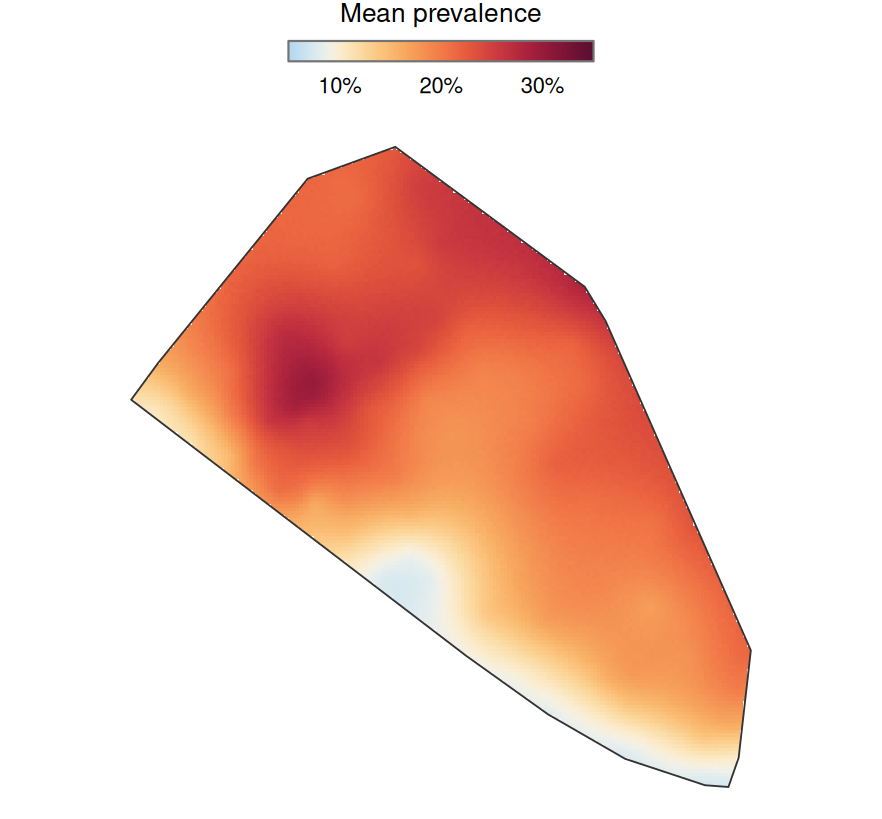
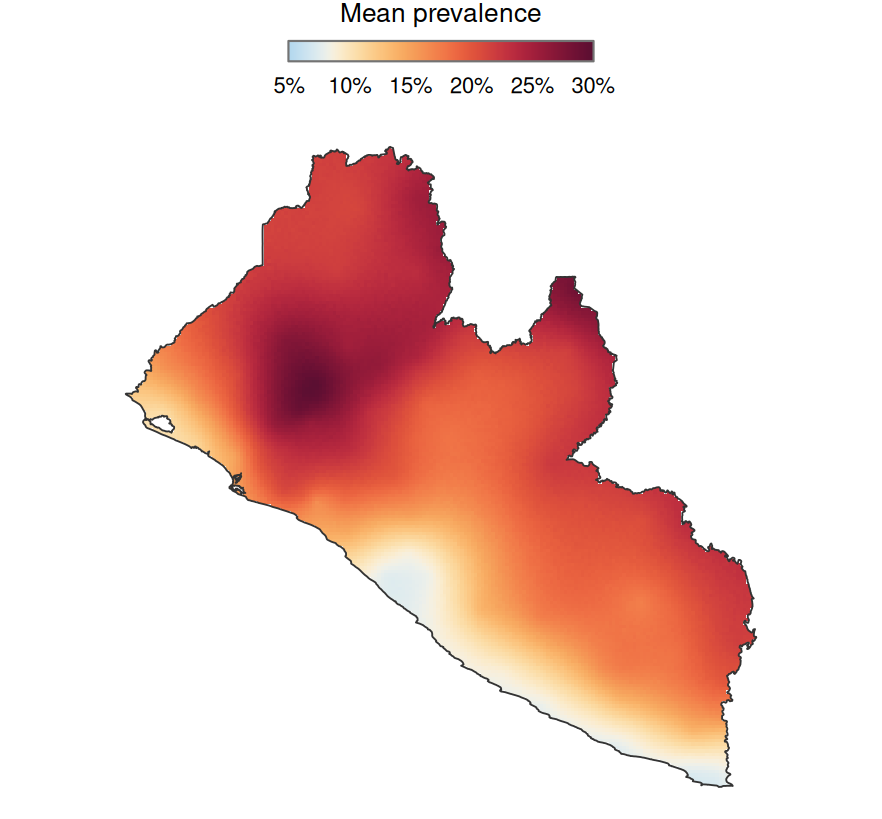
Rework the home page after my comments
A plainer pitch, a Get started section whose map covers Liberia within its
geoBoundaries border, cards for exploring, fitting, predicting and assessing
in plain terms, and full-width text. Drop the reference to Diggle and Giorgi
(2019) and, from NEWS, the line on the authors.

diff --git a/pkgdown/extra.css b/pkgdown/extra.css
@@ -106,16 +106,11 @@ code, pre, kbd {
 
 /* Home page --------------------------------------------------------------- */
 
-/* The home page is a landing page across the full width, with its prose kept
-   to a readable measure */
+/* The home page is a landing page across the width of the page, narrow
+   enough for its short paragraphs to read comfortably */
 .template-home .row > #main {
   width: 100%;
-  max-width: 66rem;
-}
-
-.template-home #main p,
-.template-home #main ul {
-  max-width: 46rem;
+  max-width: 62rem;
 }
 
 .template-home .row > aside {

diff --git a/pkgdown/index.md b/pkgdown/index.md
@@ -3,11 +3,12 @@ CRAN, so keep the two in step. The map comes from knitting README.Rmd. -->
 
 # RiskMap
 
-<p class="rm-pitch">Turn surveys at scattered locations into maps of disease
-risk, with geostatistical models that tell you how certain each map is.</p>
+<p class="rm-pitch">Model-based geostatistics in R. Fit spatial models to
+survey data, predict disease risk at locations and over areas, and quantify
+its uncertainty.</p>
 
 <div class="rm-actions">
-<a class="btn btn-primary btn-lg" href="#from-data-to-a-map">Get started</a>
+<a class="btn btn-primary btn-lg" href="#get-started">Get started</a>
 <a class="btn btn-outline-primary btn-lg" href="https://www.mbgr.org/"><i class="fa-solid fa-book-open" aria-hidden="true"></i> Read the book</a>
 <a class="btn btn-outline-secondary btn-lg" href="reference/index.html">Reference</a>
 </div>
@@ -19,11 +20,10 @@ risk, with geostatistical models that tell you how certain each map is.</p>
 <!-- badges: end -->
 :::
 
-RiskMap fits generalised linear models with a spatial Gaussian process to
-Gaussian, binomial, Poisson and negative binomial data, and predicts risk at
-single locations and over areas. It was written for public health, such as
-mapping the prevalence of a disease from village surveys, but it applies to
-any continuous or count outcome measured at points in space.
+RiskMap implements generalised linear geostatistical models for Gaussian,
+binomial, Poisson and negative binomial outcomes. It was developed for public
+health, for example to map the prevalence of a disease from surveys, and
+applies to any outcome measured at geo-referenced locations.
 
 <hr class="rm-rule">
 
@@ -41,12 +41,12 @@ remotes::install_github("claudiofronterre/RiskMap")
 `install.packages("RiskMap")` installs RiskMap 1.0.0 from CRAN, whose
 interface is different.
 
-## From data to a map {#from-data-to-a-map}
+## Get started {#get-started}
 
 The `liberia` data give, for 90 villages, the number of people examined for
-the nodules of river blindness and the number found with them. A binomial
-model with a Gaussian process, fitted to the counts, gives the predicted
-prevalence everywhere in the area the villages span.
+the nodules of river blindness and the number found with them. This example
+fits a binomial geostatistical model to the counts and maps the predicted
+prevalence across Liberia.
 
 :::: {.row .g-4 .align-items-center}
 
@@ -54,27 +54,32 @@ prevalence everywhere in the area the villages span.
 ``` r
 library(RiskMap)
 library(sf)
+library(geobounds)
 
 data(liberia)
 liberia <- st_as_sf(liberia,
                     coords = c("long", "lat"),
                     crs = 4326)
-liberia <- st_transform(liberia, propose_crs(liberia))
+crs <- propose_crs(liberia)
+liberia <- st_transform(liberia, crs)
+border <- st_transform(gb_get_adm0("Liberia"), crs)
 
 fit <- glgpm(npos ~ gp(),
              data = liberia,
              family = "binomial",
              denominator = ntest)
 
-grid <- create_grid(create_convex_hull(liberia), spacing = 2.5)
+grid <- create_grid(border, spacing = 2.5)
 prediction <- predict(fit, newdata = grid)
 plot(prediction)
 ```
 :::
 
 ::: {.col-xl-5}
-<img src="man/figures/README-example-1.png" class="rm-figure" alt="Map of the predicted prevalence of river blindness nodules over the area of the Liberian villages, from under 10% in the south to over 30% in the north-west.">
-<p class="rm-caption">The predicted prevalence of nodules, as drawn by <code>plot(prediction)</code>.</p>
+<img src="man/figures/README-example-1.png" class="rm-figure" alt="Map of the predicted prevalence of river blindness nodules across Liberia, from about 5% on the south coast to over 25% in the north-west.">
+<p class="rm-caption">Predicted prevalence of nodules across Liberia.
+Boundary from <a href="https://www.geoboundaries.org/">geoBoundaries</a>
+(UNMIL and OCHA ROWCA), CC BY 3.0 IGO.</p>
 :::
 
 ::::
@@ -85,28 +90,29 @@ plot(prediction)
 
 :::: {.col}
 ::: {.card}
-<i class="fa-solid fa-chart-line rm-icon" aria-hidden="true"></i>
+<i class="fa-solid fa-magnifying-glass-location rm-icon" aria-hidden="true"></i>
 
-### Fit
+### Explore
 
-Write the model as a formula with a Gaussian process, `gp()`, and random
-effects, `re()`, and fit it with `glgpm()`. Monte Carlo maximum likelihood
-enlarges its samples until the Monte Carlo error is small.
+Choose a projection that keeps distances accurate with `propose_crs()`, look
+for spatial correlation with `variogram()`, and build prediction grids and
+population weights with `create_grid()` and `get_worldpop()`.
 
-[Specifying and fitting](reference/index.html#specifying-and-fitting)
+[Data and projections](reference/index.html#data-and-projections)
 :::
 ::::
 
 :::: {.col}
 ::: {.card}
-<i class="fa-solid fa-magnifying-glass-chart rm-icon" aria-hidden="true"></i>
+<i class="fa-solid fa-chart-line rm-icon" aria-hidden="true"></i>
 
-### Check
+### Fit
 
-See how a fit was computed with `check_fit()`, and measure the uncertainty of
-the estimates with `profile()` likelihoods and `parametric_bootstrap()`.
+Write the model as a formula with a spatial Gaussian process, `gp()`, and
+random effects, `re()`, and fit it with `glgpm()`. `check_fit()` flags
+anything in the fit that needs attention.
 
-[Checking a fit](reference/index.html#checking-a-fit)
+[Specifying and fitting](reference/index.html#specifying-and-fitting)
 :::
 ::::
 
@@ -145,8 +151,7 @@ test prediction targets on simulated data with `assess_simulation()`.
 **[Model-based geostatistics for global public health using
 R](https://www.mbgr.org/)**, by Emanuele Giorgi and Claudio Fronterre, teaches
 model-based geostatistics with RiskMap through analyses of real data from
-public health. It is free to read online. The methods are set out in Diggle
-and Giorgi (2019).
+public health. It is free to read online.
 :::
 
 ## RiskMap 2.0
@@ -154,8 +159,8 @@ and Giorgi (2019).
 RiskMap 2.0 is a redesign of version 1.0.0. Many functions have been renamed,
 merged or removed, and prediction at locations and over areas now goes through
 a single `predict()` method, so code written for 1.0.0 needs changing. The
-[NEWS](news/index.html) describes every change and has a table of the
-functions of 1.0.0 with their replacements.
+[NEWS](news/index.html) lists the main changes, with a table of the functions
+of 1.0.0 and their replacements.
 
 ## Citation
 
@@ -166,11 +171,5 @@ Modeling of Spatially Referenced Data*. R package version 2.0.0.
 <https://claudiofronterre.github.io/RiskMap/>
 
 `citation("RiskMap")` in R, or [Citing RiskMap](authors.html#citation), gives
-the same reference with a BibTeX entry. If you use the methods, please also
-cite
-
-Diggle, P. J. and Giorgi, E. (2019). *Model-based Geostatistics for Global
-Public Health: Methods and Applications*. Chapman and Hall/CRC.
-
-Please report bugs and suggest features in the [issue
-tracker](https://github.com/claudiofronterre/RiskMap/issues).
+the same reference with a BibTeX entry. Please report bugs and suggest
+features in the [issue tracker](https://github.com/claudiofronterre/RiskMap/issues).

diff --git a/README.md b/README.md
@@ -10,28 +10,21 @@ status](https://www.r-pkg.org/badges/version/RiskMap)](https://CRAN.R-project.or
 [![R-CMD-check](https://github.com/claudiofronterre/RiskMap/actions/workflows/R-CMD-check.yaml/badge.svg)](https://github.com/claudiofronterre/RiskMap/actions/workflows/R-CMD-check.yaml)
 <!-- badges: end -->
 
-RiskMap fits geostatistical models to spatially referenced data and uses
-them to map risk, at single locations and over areas. It was written for
-problems in public health, such as mapping the prevalence of a disease
-from surveys in scattered villages, but it applies to any continuous or
-count outcome measured at points in space.
+Model-based geostatistics in R. Fit spatial models to survey data,
+predict disease risk at locations and over areas, and quantify its
+uncertainty.
 
-The models are generalised linear models with a stationary Gaussian
-process of Matérn correlation and, optionally, unstructured random
-effects. The response can be Gaussian, binomial, Poisson or negative
-binomial, and a binomial or Poisson model can take any link through its
-inverse. Linear Gaussian models are fitted by maximum likelihood and the
-others by Monte Carlo maximum likelihood, which measures the Monte Carlo
-error of the estimates and enlarges its samples until that error is
-small compared with their standard errors.
+RiskMap implements generalised linear geostatistical models for
+Gaussian, binomial, Poisson and negative binomial outcomes. It was
+developed for public health, for example to map the prevalence of a
+disease from surveys, and applies to any outcome measured at
+geo-referenced locations.
 
 With RiskMap you can
 
-- choose a projected coordinate reference system that keeps distances
-  accurate, and download population counts from WorldPop,
-- explore spatial correlation with the empirical variogram,
-- fit models with `glgpm()` and check them with profile likelihoods and
-  the parametric bootstrap,
+- choose a projection that keeps distances accurate, explore spatial
+  correlation, and download population counts from WorldPop,
+- fit models with `glgpm()` and check them with `check_fit()`,
 - predict with `predict()` at new locations or over areas, for targets
   such as prevalence, the probability of exceeding a threshold or a
   population-weighted average,
@@ -53,43 +46,47 @@ remotes::install_github("claudiofronterre/RiskMap")
 `install.packages("RiskMap")` installs RiskMap 1.0.0 from CRAN, whose
 interface is different.
 
-## An example
+## Get started
 
-The `liberia` data give, for 90 villages in Liberia, the number of
-people examined for the nodules of river blindness and the number found
-with them. This fits a binomial model with a Gaussian process to the
-counts and maps the predicted prevalence over the area the villages
-span.
+The `liberia` data give, for 90 villages, the number of people examined
+for the nodules of river blindness and the number found with them. This
+example fits a binomial geostatistical model to the counts and maps the
+predicted prevalence across Liberia.
 
 ``` r
 library(RiskMap)
 library(sf)
+library(geobounds)
 
 data(liberia)
 liberia <- st_as_sf(liberia,
                     coords = c("long", "lat"),
                     crs = 4326)
-liberia <- st_transform(liberia, propose_crs(liberia))
+crs <- propose_crs(liberia)
+liberia <- st_transform(liberia, crs)
+border <- st_transform(gb_get_adm0("Liberia"), crs)
 
 fit <- glgpm(npos ~ gp(),
              data = liberia,
              family = "binomial",
              denominator = ntest)
 
-grid <- create_grid(create_convex_hull(liberia), spacing = 2.5)
+grid <- create_grid(border, spacing = 2.5)
 prediction <- predict(fit, newdata = grid)
 plot(prediction)
 ```
 
-<img src="man/figures/README-example-1.png" alt="Map of the predicted prevalence of river blindness nodules over the area of the Liberian villages, from under 10% in the south to over 30% in the north-west."  />
+<img src="man/figures/README-example-1.png" alt="Map of the predicted prevalence of river blindness nodules across Liberia, from about 5% on the south coast to over 25% in the north-west."  />
+
+The boundary is from [geoBoundaries](https://www.geoboundaries.org/)
+(UNMIL and OCHA ROWCA), under CC BY 3.0 IGO.
 
 ## Learning RiskMap
 
 The book [*Model-based geostatistics for global public health using
 R*](https://www.mbgr.org/), by Emanuele Giorgi and Claudio Fronterre,
 teaches model-based geostatistics with RiskMap through analyses of real
-data from public health, and is free to read online. The methods are set
-out in Diggle and Giorgi (2019).
+data from public health, and is free to read online.
 
 ## RiskMap 2.0
 
@@ -97,9 +94,8 @@ RiskMap 2.0 is a redesign of version 1.0.0. Many functions have been
 renamed, merged or removed, and prediction at locations and over areas
 now goes through a single `predict()` method, so code written for 1.0.0
 needs changing. The
-[NEWS](https://claudiofronterre.github.io/RiskMap/news/) describes every
-change and has a table of the functions of 1.0.0 with their
-replacements.
+[NEWS](https://claudiofronterre.github.io/RiskMap/news/) lists the main
+changes, with a table of the functions of 1.0.0 and their replacements.
 
 ## Citation
 
@@ -110,10 +106,5 @@ Modeling of Spatially Referenced Data*. R package version 2.0.0.
 <https://claudiofronterre.github.io/RiskMap/>
 
 `citation("RiskMap")` in R gives the same reference with a BibTeX entry.
-If you use the methods, please also cite
-
-Diggle, P. J. and Giorgi, E. (2019). *Model-based Geostatistics for
-Global Public Health: Methods and Applications*. Chapman and Hall/CRC.
-
 Please report bugs and suggest features in the [issue
 tracker](https://github.com/claudiofronterre/RiskMap/issues).

diff --git a/NEWS.md b/NEWS.md
@@ -1308,11 +1308,6 @@ parameters have been renamed to `metric`/`model`.
 
 ## Other
 
-- Claudio Fronterre, a contributor to 1.0.0, is now an author and the
-maintainer of RiskMap, and Simon Smart joins as an author. Emanuele Giorgi,
-the maintainer of 1.0.0, remains an author. `citation("RiskMap")` names all
-three and always gives a year, which it left out for a package installed from
-its source folder.
 - Argument checks in the compiled MALA, likelihood and distance kernels have
 been removed or moved to their R callers, following the contributing guide;
 the R functions already validated everything the MALA and likelihood kernels
